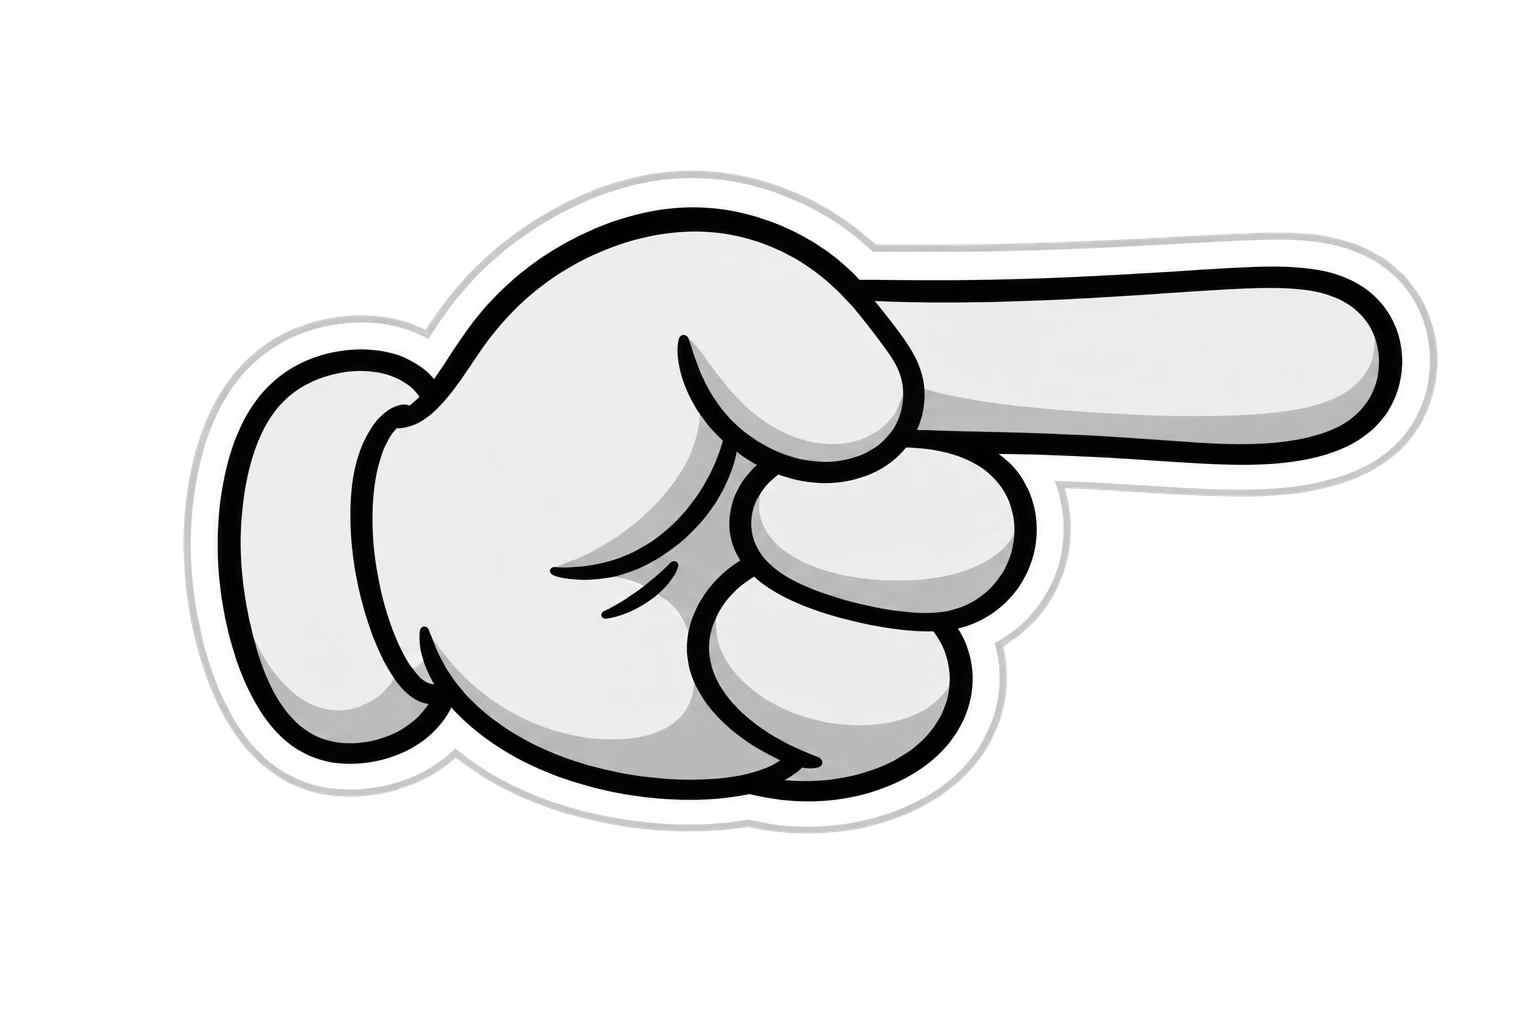
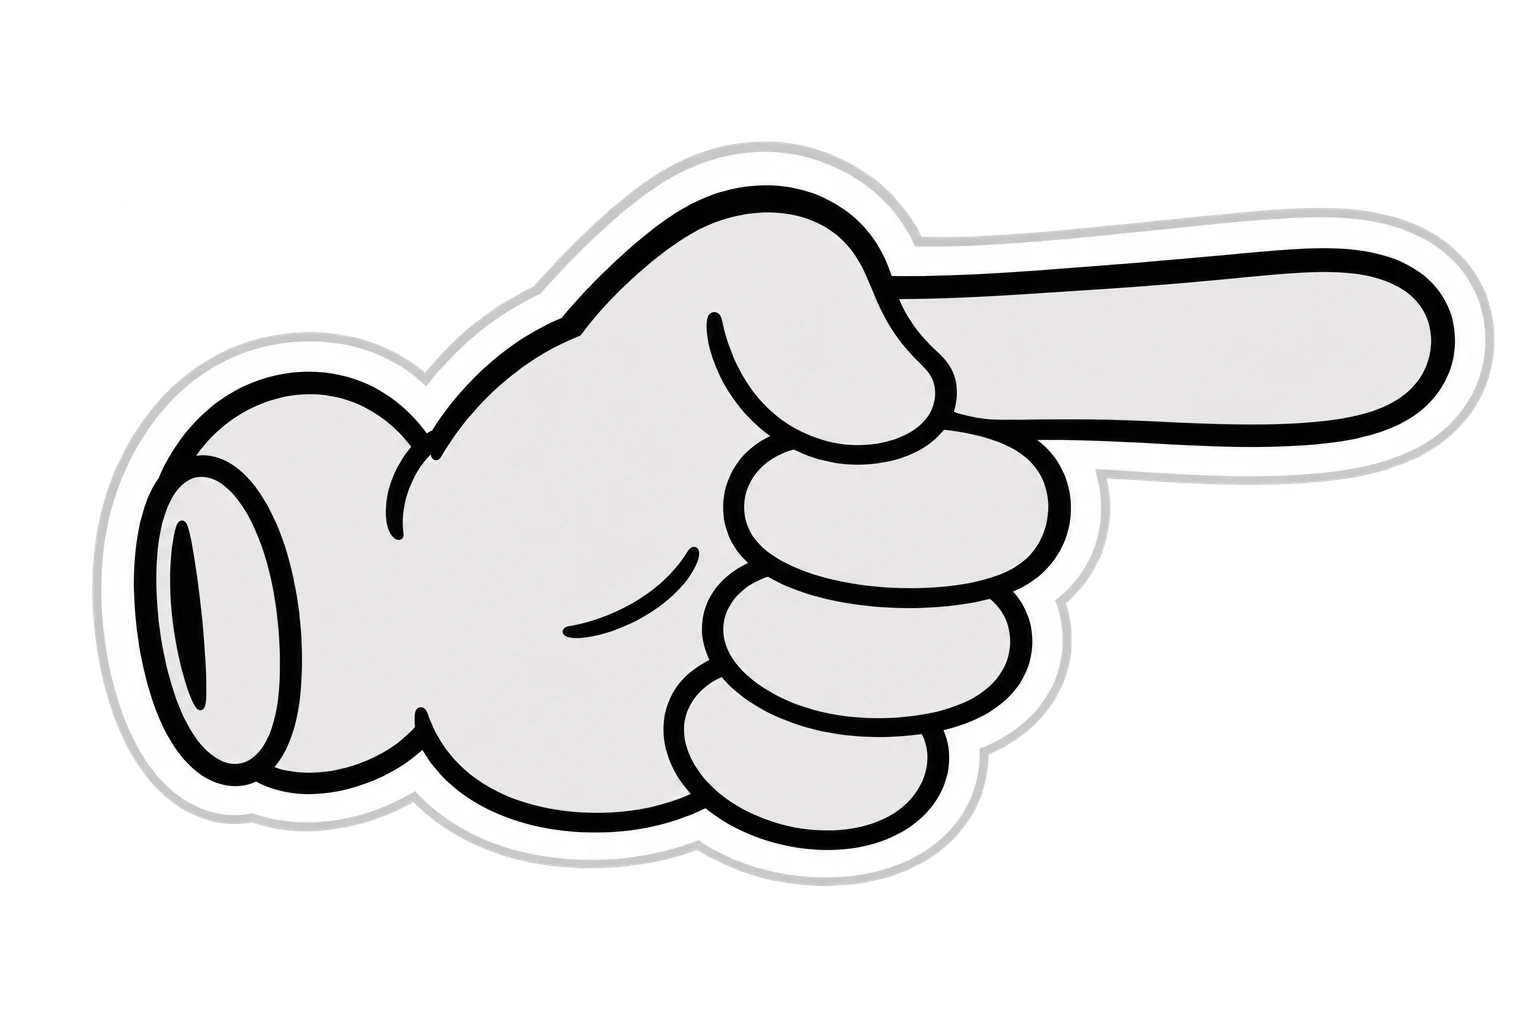
fix(estilo): rolagem suave sob a faixa, traço da caneta no card de conexão e nova mão
- A faixa dos filtros (Fechamentos, Extratos, Conciliações, Histórico, Empresas) esmaece o que
  rola num degradê de 28px em vez de cortar seco, e se estende 16px para os lados para cobrir o
  contorno e a sombra da folha selecionada. Os painéis fixos ficam acima dela.
- O card de Conexões da Visão geral ganha o traço de tinta da landing (InkHover em tom claro);
  o InkHover passa a aceitar as="section" e aria-labelledby para o card seguir sendo uma região.
- Nova imagem da mão apontando, no mesmo tamanho da anterior.

Changed region(s): [[0.0625, 0.125, 1.0, 0.875]]

diff --git a/app/globals.css b/app/globals.css
@@ -2315,7 +2315,7 @@ button.link-animado { border: 0; background-color: transparent; font: inherit; p
 @media (max-width: 1099px) { .conc-previa { order: -1; } }
 @media (min-width: 1100px) {
   .conc-mesa { grid-template-columns: minmax(0, 7fr) minmax(320px, 5fr); }
-  .conc-previa { position: sticky; top: calc(var(--app-topo-altura, 0px) + var(--extratos-filtros-altura, 58px) + 12px); }
+  .conc-previa { position: sticky; z-index: 11; top: calc(var(--app-topo-altura, 0px) + var(--extratos-filtros-altura, 58px) + 12px); }
 }
 .conc-meses { display: flex; flex-direction: column; gap: 26px; min-width: 0; }
 /* o cabeçalho do mês: título na Newsreader e o estado ao lado */
@@ -2818,7 +2818,8 @@ a.rodadas-quadrado:hover { border-color: var(--color-text); background: var(--ti
   position: absolute; left: 50%; bottom: 18px; width: 92%; height: auto;
   transform: translateX(-50%); opacity: 0.07; pointer-events: none;
 }
-.vg-conexao > :not(.vg-conexao-mascote) { position: relative; z-index: 1; }
+/* o traço de tinta (<InkHover>) fica de fora: ele se posiciona sozinho, atrás do texto */
+.vg-conexao > :not(.vg-conexao-mascote, .ink-drop) { position: relative; z-index: 1; }
 
 .vg-estado-titulo {
   margin: 0; font-size: 34px; font-weight: 400;
@@ -3026,6 +3027,14 @@ a.rodadas-quadrado:hover { border-color: var(--color-text); background: var(--ti
   min-height: 58px;
   /* a faixa cresce para cima e para baixo sem tirar as pílulas do lugar */
   margin-block: -10px; background: var(--color-bg);
+  /* e para os lados, até o recuo mínimo da página: o contorno e a sombra da folha selecionada
+     passam da borda da coluna e apareciam ao lado da faixa */
+  margin-inline: -16px; padding-inline: 16px;
+}
+/* o que rola some num degradê da cor da página logo abaixo da faixa, em vez de cortar seco na borda */
+.extratos-filtros::after {
+  content: ""; position: absolute; top: 100%; left: 0; right: 0; height: 28px; pointer-events: none;
+  background: linear-gradient(var(--color-bg), transparent);
 }
 .extratos-agrupar { display: flex; align-items: center; gap: 10px; }
 .extratos-agrupar-rotulo {
@@ -3130,7 +3139,8 @@ a.rodadas-quadrado:hover { border-color: var(--color-text); background: var(--ti
   color: color-mix(in srgb, var(--color-text) 62%, transparent);
 }
 .extrato-painel {
-  position: sticky; display: flex; flex-direction: column; gap: 14px;
+  /* acima da faixa dos filtros, para o degradê dela não apagar a borda de cima do painel */
+  position: sticky; z-index: 11; display: flex; flex-direction: column; gap: 14px;
   top: calc(var(--app-topo-altura, 0px) + var(--extratos-filtros-altura, 0px) + 6px);
   /* mais alto que a janela, rola por dentro: preso, o pé dele ficaria fora de alcance */
   max-height: calc(100vh - var(--app-topo-altura, 0px) - var(--extratos-filtros-altura, 0px) - 24px);

diff --git a/app/(app)/e/[empresa]/visao-geral/cartao-de-conexao.tsx b/app/(app)/e/[empresa]/visao-geral/cartao-de-conexao.tsx
@@ -2,6 +2,7 @@
 
 import Image from "next/image";
 import { useState } from "react";
+import { InkHover } from "@/app/reveal";
 import { abrirConfiguracoes } from "@/lib/eventos";
 import { formatarDataHora } from "../dashboard/resumo";
 import type { ConexaoMcp } from "../conexoes-mcp/acoes";
@@ -32,8 +33,9 @@ export function CartaoDeConexao({ itens, endereco }: { itens: ConexaoMcp[]; ende
     .sort()
     .at(-1);
 
+  // o traço da caneta da landing (InkHover), claro sobre a tinta do cartão
   return (
-    <section className="vg-bloco vg-conexao" aria-labelledby="vg-conexao-titulo">
+    <InkHover as="section" tone="light" className="vg-bloco vg-conexao" aria-labelledby="vg-conexao-titulo">
       <span className="vg-conexao-rotulo">Conexões</span>
       {ativas.length === 0 ? (
         <>
@@ -81,6 +83,6 @@ export function CartaoDeConexao({ itens, endereco }: { itens: ConexaoMcp[]; ende
         className="vg-conexao-mascote"
         aria-hidden="true"
       />
-    </section>
+    </InkHover>
   );
 }

diff --git a/app/reveal.tsx b/app/reveal.tsx
@@ -105,19 +105,25 @@ export function InkHover({
   className,
   tone = "dark",
   clip = true,
+  as: Tag = "div",
+  "aria-labelledby": rotuladoPor,
 }: {
   children: ReactNode;
   style?: CSSProperties;
   className?: string;
   tone?: "dark" | "light";
   clip?: boolean;
+  /** `section` para o bloco que é uma região da tela, com o título em `aria-labelledby` */
+  as?: "div" | "section";
+  "aria-labelledby"?: string;
 }) {
   const lastPoint = useRef<{ x: number; y: number } | null>(null);
   const reducedMotion = useReducedMotion();
 
   return (
-    <div
+    <Tag
       className={className}
+      aria-labelledby={rotuladoPor}
       style={{ position: "relative", overflow: clip ? "hidden" : "visible", ...style }}
       onMouseMove={(e) => {
         const bloco = e.currentTarget;
@@ -151,7 +157,7 @@ export function InkHover({
       }}
     >
       {children}
-    </div>
+    </Tag>
   );
 }
 
